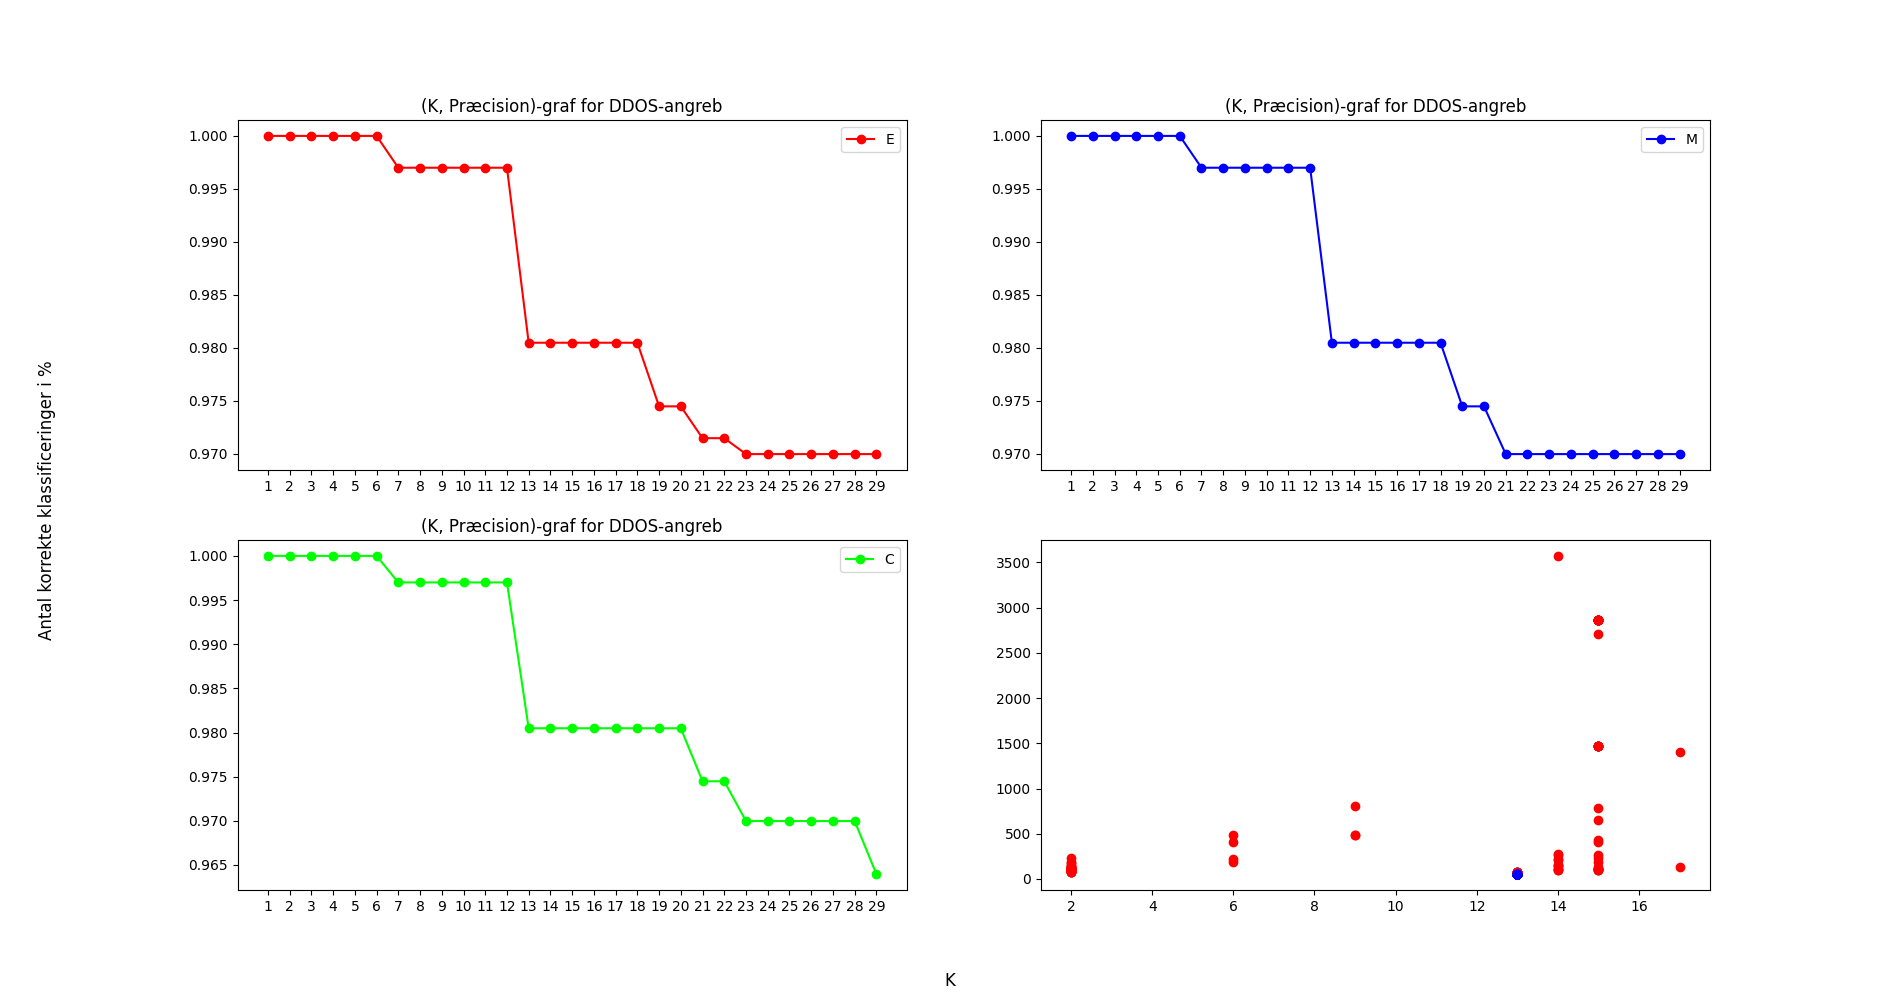
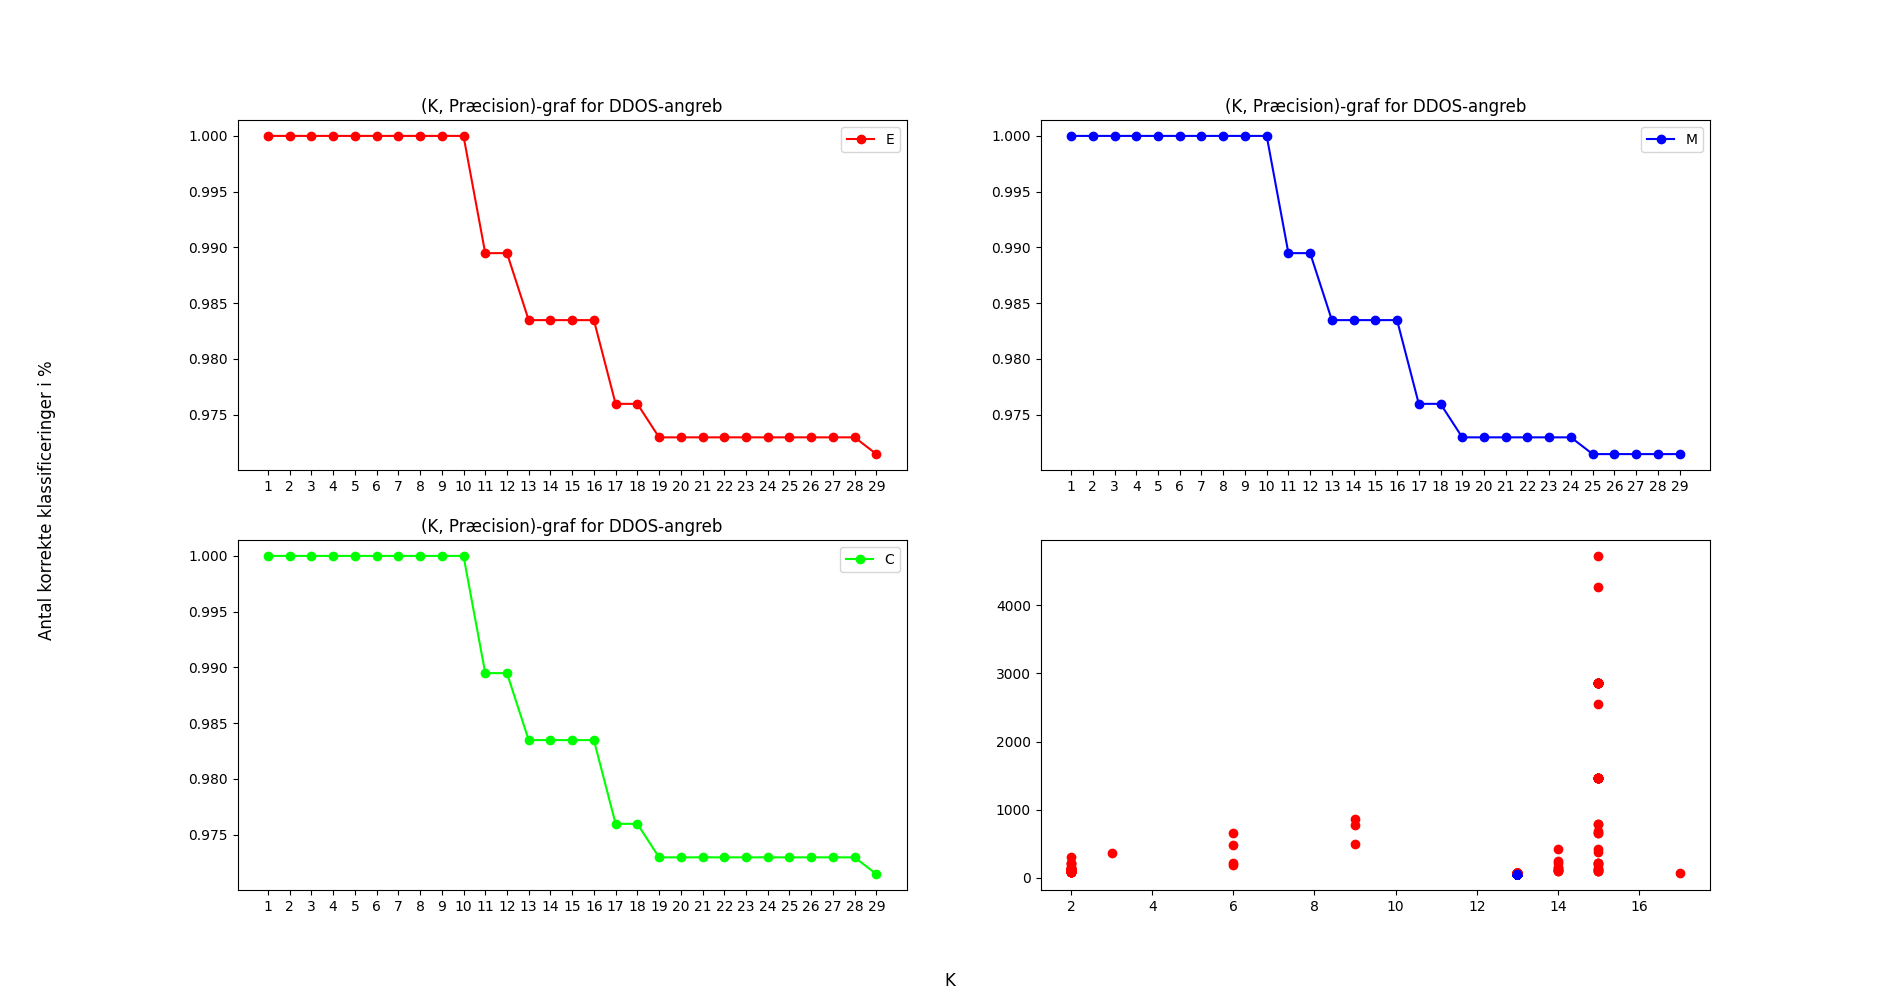
added graph to readme file

diff --git a/main.py b/main.py
@@ -85,6 +85,7 @@ def calculateNumberOfLines():
 
 
 def main():
+    start = False
     figure, axis = plt.subplots(2, 2)
     numberOflines: int = calculateNumberOfLines()
 
@@ -94,88 +95,97 @@ def main():
     csv_reader = [next(csv_reader) for x in range(numberOflines - 2)]
     random.shuffle(csv_reader)
 
-    lineCount = 0
-    for row in csv_reader:
-        # Opsætter de forskellige features
+    if st.button("Start KNN"):
+        st.write("KNN kører, vent venligst... ☕")
+        lineCount = 0
+        attackCount = 0
+        for row in csv_reader:
+            # Opsætter de forskellige features
 
-        # 0    1    2        3          4        5        6             7           8
-        # No.,Time,Source,Destination,Protocol,Length,Source port,Destination port,Type
-        source = float(row[2].replace(".", ""))
-        destination = float(row[3].replace(".", ""))
-        protocol = protocols.get(row[4])
-        length = int(row[5])
-        destinationPort = int(row[7])
-        attackType = attackTypes.get(row[8])
+            # 0    1    2        3          4        5        6             7           8
+            # No.,Time,Source,Destination,Protocol,Length,Source port,Destination port,Type
+            source = float(row[2].replace(".", ""))
+            destination = float(row[3].replace(".", ""))
+            protocol = protocols.get(row[4])
+            length = int(row[5])
+            destinationPort = int(row[7])
+            attackType = attackTypes.get(row[8])
 
-        point = Point(protocol, length, destinationPort, attackType)
-        # Put 1/3 of data in training data, and 2/3 in test data
-        if (lineCount % 3 == 0):
-            dataPoints.append(point)
-        else:
-            testPoints.append(point)
-        lineCount += 1
+            if attackType:
+                attackCount += 1
 
-    # Plotter alle datapointer
-    for data in dataPoints:
-        axis[1, 1].scatter(data.x, data.y, c=colors[data.label], marker="o")
+            point = Point(protocol, length, destinationPort, attackType)
+            # Put 1/3 of data in training data, and 2/3 in test data
+            if (lineCount % 3 == 0):
+                dataPoints.append(point)
+            else:
+                testPoints.append(point)
+            lineCount += 1
 
-    #    if data.label == 1:
-    #        print(data.x, data.y)
+        # Plotter alle datapointer
+        for data in dataPoints:
+            axis[1, 1].scatter(data.x, data.y, c=colors[data.label], marker="o")
 
-    for funcIndex in range(len(distFuncs)):
-        a = []
-        pa = None
-        for k in range(1, kMax):
-            print(f"k: {k}")
-            correct = 0
-            for testPoint in testPoints:
-                if KNN(testPoint.x, testPoint.y, testPoint.z, k, funcIndex) == testPoint.label:
-                    # axis[1,1].scatter(testPoint.x, testPoint.y, c=colors[testPoint.label], marker=matplotlib.markers.CARETUPBASE)
-                    correct += 1
-            a.append(correct / len(testPoints))
+        #    if data.label == 1:
+        #        print(data.x, data.y)
 
-        print(f"funcindex: {funcIndex}")
-        match funcIndex:
-            case 0:
-                axis[0, 0].plot([k for k in range(1, kMax)], a,
-                                "o-", color=colors[funcIndex])
-                axis[0, 0].set_title("(K, Præcision)-graf for DDOS-angreb")
-                axis[0, 0].legend("Euklid")
-                # axis[0, 0].set_xlabel="K"
-                # axis[0, 0].set_ylabel="Antal korrekte klassificeringer i %"
-                axis[0, 0].set_xticks([x for x in range(1, kMax)])
-            case 1:
-                axis[0, 1].plot([k for k in range(1, kMax)], a,
-                                "o-", color=colors[funcIndex])
-                axis[0, 1].set_title("(K, Præcision)-graf for DDOS-angreb")
-                axis[0, 1].legend("Manhattan")
-                # axis[0, 0].set_xlabel="K"
-                # axis[0, 0].set_ylabel="Antal korrekte klassificeringer i %"
-                axis[0, 1].set_xticks([x for x in range(1, kMax)])
-            case 2:
-                axis[1, 0].plot([k for k in range(1, kMax)], a,
-                                "o-", color=colors[funcIndex])
-                axis[1, 0].set_title("(K, Præcision)-graf for DDOS-angreb")
-                axis[1, 0].legend("Chebyshev")
-                # axis[0, 0].set_xlabel="K"
-                # axis[0, 0].set_ylabel="Antal korrekte klassificeringer i %"
-                axis[1, 0].set_xticks([x for x in range(1, kMax)])
+        for funcIndex in range(len(distFuncs)):
+            a = []
+            pa = None
+            for k in range(1, kMax):
+                print(f"k: {k}")
+                correct = 0
+                for testPoint in testPoints:
+                    if KNN(testPoint.x, testPoint.y, testPoint.z, k, funcIndex) == testPoint.label:
+                        # axis[1,1].scatter(testPoint.x, testPoint.y, c=colors[testPoint.label], marker=matplotlib.markers.CARETUPBASE)
+                        correct += 1
+                a.append(correct / len(testPoints))
 
-    figure.supxlabel("K")
-    figure.supylabel("Antal korrekte klassificeringer i %")
+            print(f"funcindex: {funcIndex}")
+            match funcIndex:
+                case 0:
+                    axis[0, 0].plot([k for k in range(1, kMax)], a,
+                                    "o-", color=colors[funcIndex])
+                    axis[0, 0].set_title("(K, Præcision)-graf for DDOS-angreb")
+                    axis[0, 0].legend("Euklid")
+                    # axis[0, 0].set_xlabel="K"
+                    # axis[0, 0].set_ylabel="Antal korrekte klassificeringer i %"
+                    axis[0, 0].set_xticks([x for x in range(1, kMax)])
+                case 1:
+                    axis[0, 1].plot([k for k in range(1, kMax)], a,
+                                    "o-", color=colors[funcIndex])
+                    axis[0, 1].set_title("(K, Præcision)-graf for DDOS-angreb")
+                    axis[0, 1].legend("Manhattan")
+                    # axis[0, 0].set_xlabel="K"
+                    # axis[0, 0].set_ylabel="Antal korrekte klassificeringer i %"
+                    axis[0, 1].set_xticks([x for x in range(1, kMax)])
+                case 2:
+                    axis[1, 0].plot([k for k in range(1, kMax)], a,
+                                    "o-", color=colors[funcIndex])
+                    axis[1, 0].set_title("(K, Præcision)-graf for DDOS-angreb")
+                    axis[1, 0].legend("Chebyshev")
+                    # axis[0, 0].set_xlabel="K"
+                    # axis[0, 0].set_ylabel="Antal korrekte klassificeringer i %"
+                    axis[1, 0].set_xticks([x for x in range(1, kMax)])
 
-#    st.pyplot(figure)
+        figure.supxlabel("K")
+        figure.supylabel("Antal korrekte klassificeringer i %")
 
-    figure = plt.gcf() # get current figure
-    figure.set_size_inches(19, 10)
-    # when saving, specify the DPI
-    plt.savefig("out.png", dpi = 100)
+    #    st.pyplot(figure)
 
-    image = Image.open("out.png")
-    st.image(image) 
+        figure = plt.gcf() # get current figure
+        figure.set_size_inches(19, 10)
+        # when saving, specify the DPI
+        plt.savefig("out.png", dpi = 100)
+
+        image = Image.open("out.png")
+        st.image(image) 
+
+        st.subheader(f"Der blev i alt fundet {attackCount} DDoS angreb i datasættet")
 
 
-inputFile = st.file_uploader("Upload en csv fil", type="csv")
+st.header("Victors IDS system ved brug af KNN")
+inputFile = st.file_uploader("Upload venligst dit datasæt", type="csv")
 
 if inputFile is not None:
     global file_contents
